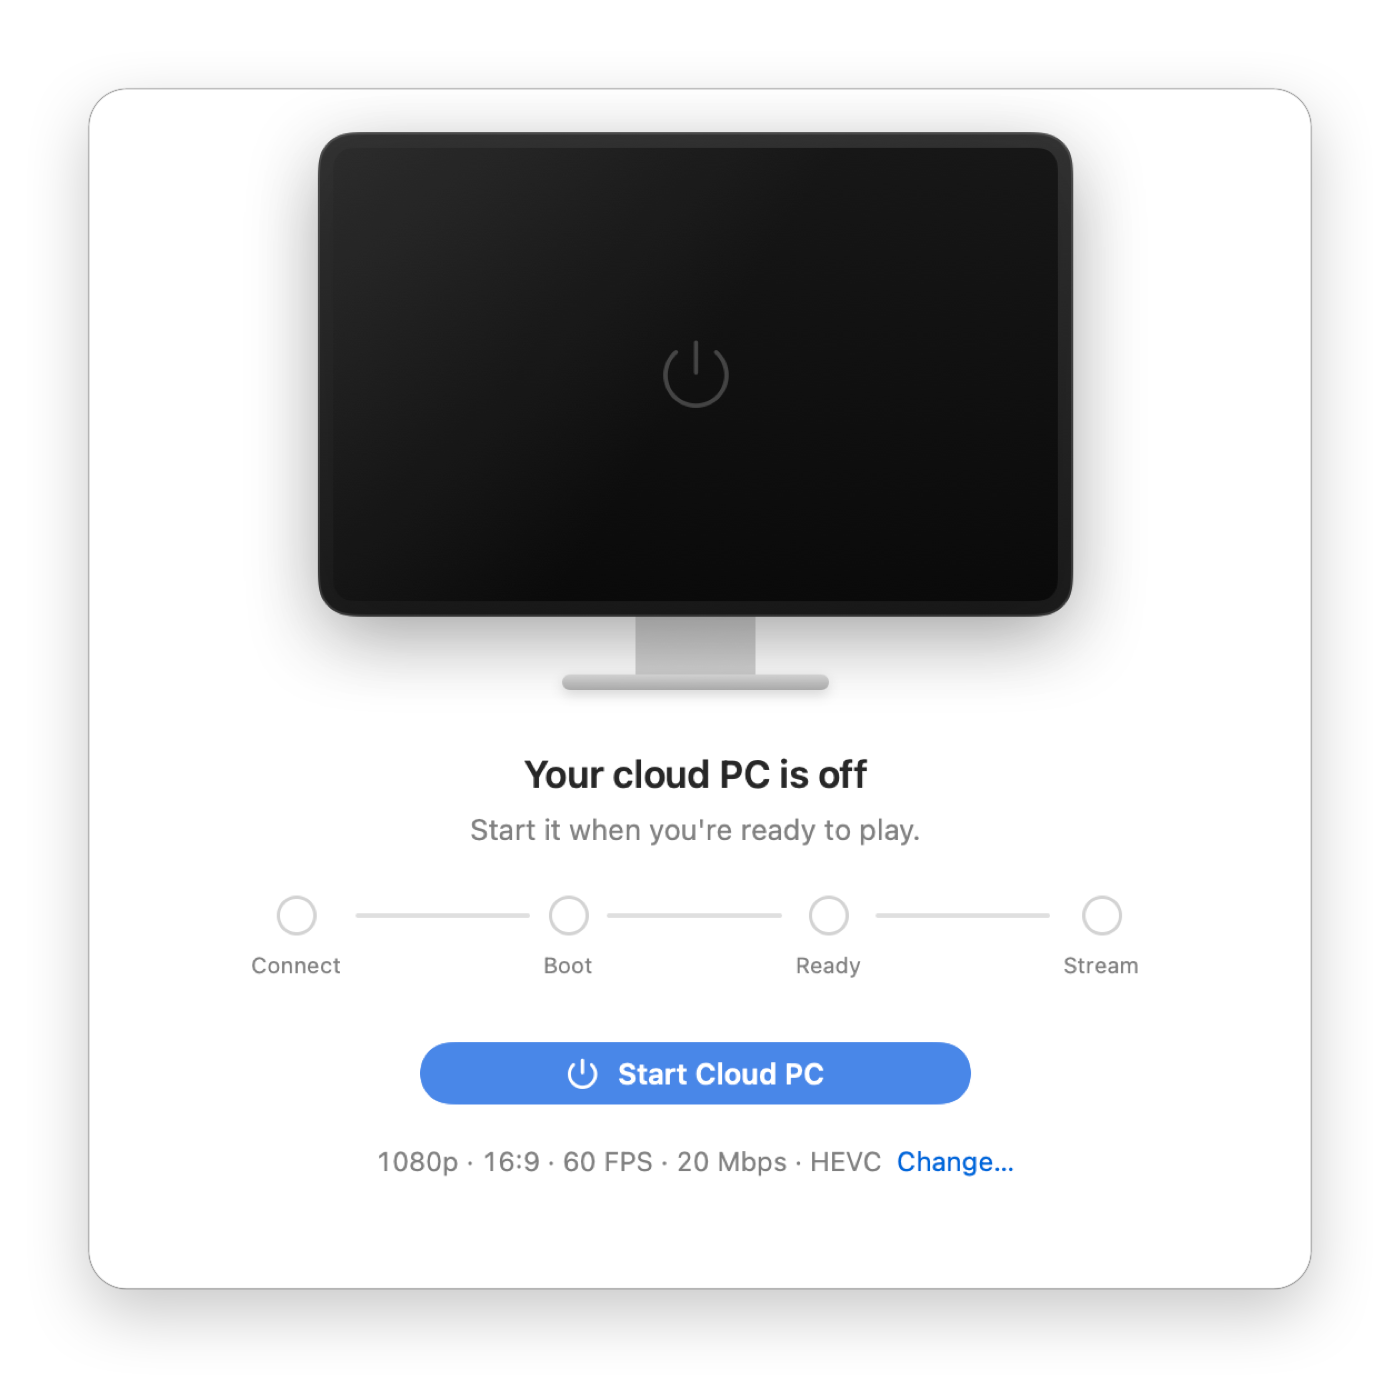
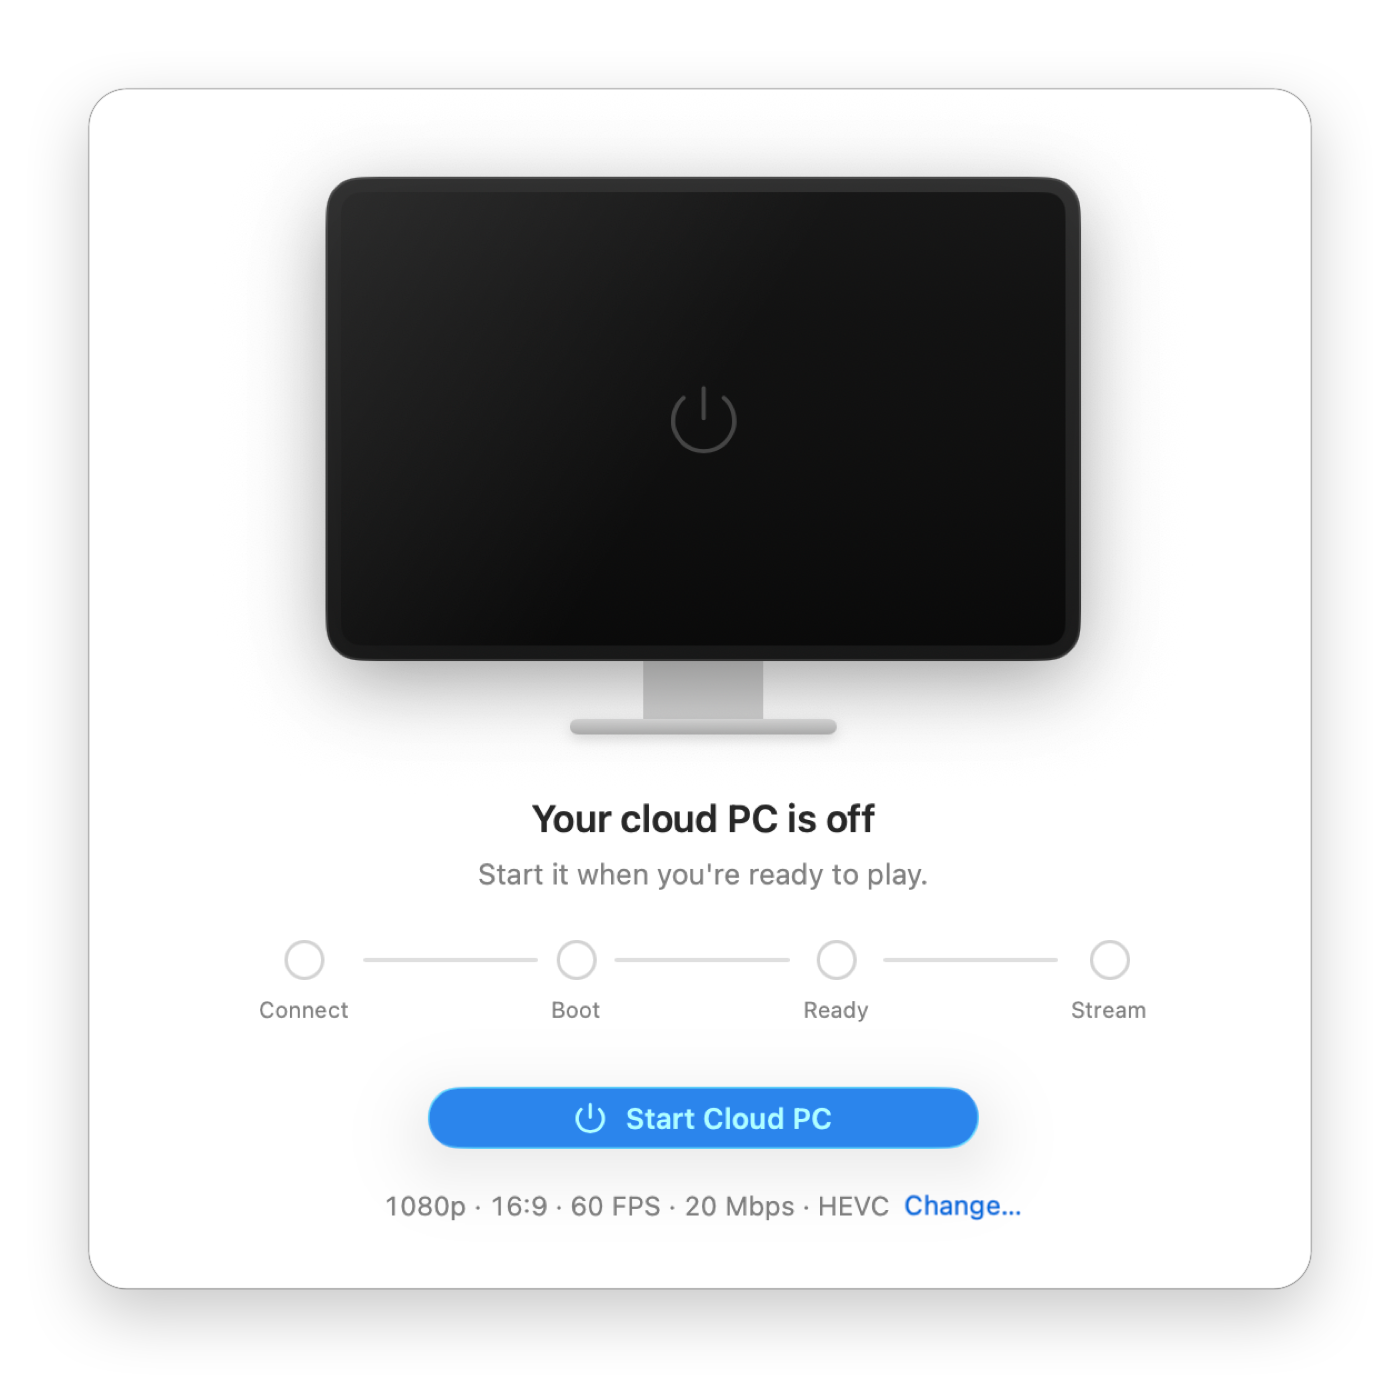
Refresh README screenshots and add the network check and overlay
All screenshots retaken from real windows (Liquid Glass, active window,
Retina) in light and dark: sign-in, the six session states, stream
settings, and the new Network pane. The overlay is shown on a real
fullscreen stream, taken from a screen recording, with a close-up of the
card and its shortcuts.

diff --git a/README.md b/README.md
@@ -15,7 +15,7 @@ Start the cloud PC, watch it boot, and play. Pairing with Moonlight happens on i
   <img src="https://img.shields.io/badge/unofficial-not%20affiliated%20with%20AntCloud-B42318?style=flat-square" alt="Unofficial">
 </p>
 
-<p><a href="#the-whole-session-in-one-window">Screenshots</a> &nbsp;·&nbsp; <a href="#getting-started">Getting started</a> &nbsp;·&nbsp; <a href="#how-it-works">How it works</a> &nbsp;·&nbsp; <a href="#project-layout">Project layout</a></p>
+<p><a href="#the-whole-session-in-one-window">Screenshots</a> &nbsp;·&nbsp; <a href="#getting-started">Getting started</a> &nbsp;·&nbsp; <a href="#an-overlay-while-you-play">Overlay</a> &nbsp;·&nbsp; <a href="#how-it-works">How it works</a> &nbsp;·&nbsp; <a href="#project-layout">Project layout</a></p>
 
 </div>
 
@@ -82,6 +82,48 @@ A drawn monitor shows the answer, the track below it shows how far along you are
     </td>
     <td width="58%" valign="top">
       <picture><source media="(prefers-color-scheme: dark)" srcset=".github/screenshots/dark-settings.png"><img src=".github/screenshots/light-settings.png" width="100%" alt="Stream settings grouped into Display, Performance, and Codec and Audio"></picture>
+    </td>
+  </tr>
+</table>
+
+## Check your connection before you start
+
+<table>
+  <tr>
+    <td width="58%" valign="top">
+      <picture><source media="(prefers-color-scheme: dark)" srcset=".github/screenshots/dark-network.png"><img src=".github/screenshots/light-network.png" width="100%" alt="Network check: latency bars, an Excellent to High scale with the marker on Good, jitter, packet loss, download speed and a bitrate suggestion"></picture>
+    </td>
+    <td width="42%" valign="top">
+      <p>The <b>Network</b> pane tells you how a stream would feel without starting the cloud PC.</p>
+      <ul>
+        <li><b>Latency</b> to AntCloud's servers, which share a network with the cloud PCs, so it's a close stand-in for the real thing. Twenty samples fill in live and a marker settles on Excellent, Good, Playable or High.</li>
+        <li><b>Jitter, packet loss and download speed</b>, the last measured through Cloudflare.</li>
+        <li><b>A plain verdict</b> and the bitrate your resolution and frame rate actually need, with one click to use it.</li>
+      </ul>
+    </td>
+  </tr>
+</table>
+
+## An overlay while you play
+
+<p align="center">
+  <img src=".github/screenshots/overlay-stream.png" width="100%" alt="A fullscreen cloud PC stream with the AntCloud overlay card in the top-right corner">
+</p>
+
+<table>
+  <tr>
+    <td width="40%" valign="top">
+      <img src=".github/screenshots/overlay-card.png" width="100%" alt="The overlay card: live latency, time left, this session, night-plan end and Moonlight's keyboard shortcuts">
+    </td>
+    <td width="60%" valign="top">
+      <p>Press <kbd>⌃</kbd><kbd>⌥</kbd><kbd>A</kbd> during a stream, in a window or fullscreen, for a small glass card over the game:</p>
+      <ul>
+        <li><b>Time left</b> on your plan, counting down, and how long this session has run</li>
+        <li><b>When a night plan ends</b> and your <b>live latency</b> to the cloud PC</li>
+        <li><b>Moonlight's own shortcuts</b>, so you don't have to remember them: release the mouse, switch mouse mode, fullscreen, stats, paste, minimize, quit</li>
+      </ul>
+      <p>It never takes the keyboard or mouse from the game. It also speaks up on its own when the cloud PC's connection gets busy (a game download on it doubled latency in testing) and when 10 minutes of plan time are left.</p>
+      <p><sub>Fullscreen needs Accessibility permission for AntCloud: Stream → Overlay → Allow…</sub></p>
     </td>
   </tr>
 </table>
